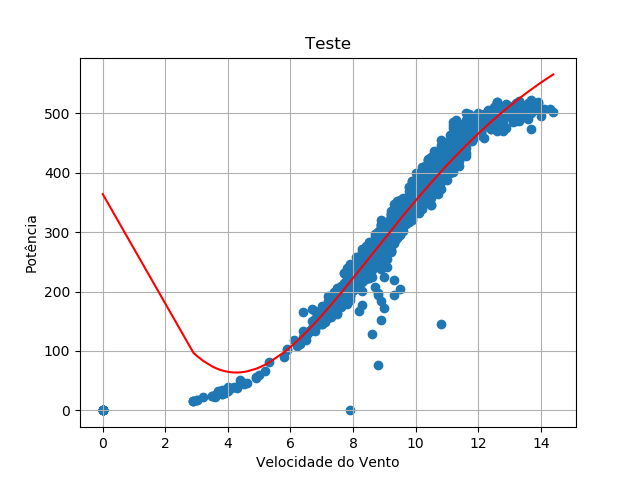
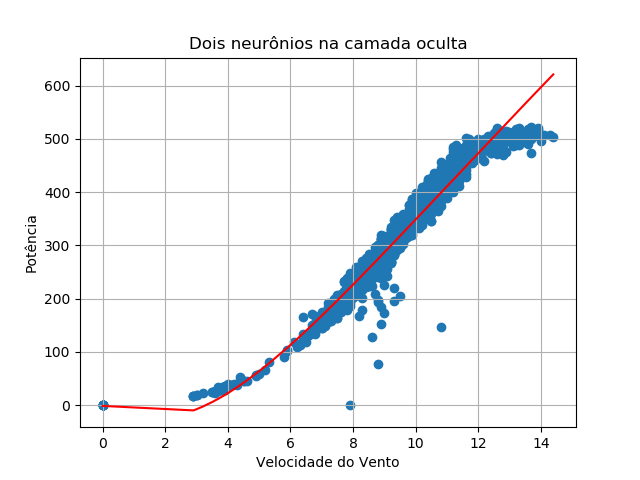
rede ELM

diff --git a/Trabalho 02/redeELM.py b/Trabalho 02/redeELM.py
@@ -6,46 +6,51 @@ import itertools
 
 data = np.loadtxt('./Trabalho 02/aerogerador.dat')
 x_treino = data[0:, 0:1] # velociade do vento
+x_treino = x_treino.reshape((1, 2250)) # transforma em um vetor de N colunas
+ones = np.ones(x_treino.shape)
+x_treino = np.vstack((ones, x_treino)) # acrescenta uma linha de 1's
 
 y_treino = data[0:, 1:]  # potência
+y_treino = y_treino.reshape((1, 2250)) # transforma em um vetor de N colunas
 
+#numero de neurônios da camada oculta
+q = 2
+p = 1 # número de variáveis de entrada
 
-# DOIS NEURÔNIOS NA CAMADA OCULTA
+# vetor de pesos da camada oculta
+W = np.random.rand(q, p+1) # matriz de pesos
 
-# Vetor de pesos inicial preenchido com valores aleatórios uniformente distribídos no intervalo [-1, 1)
-aux = [random.uniform(0, 1), random.uniform(0, 1)]
-W = np.array(aux) # matriz de pesos
-Z = np.array([[], []])  # matriz de saídas
-for i in range(0, x_treino.shape[0]):
-    x = x_treino[i]
-    u =  np.dot(W, x[0])
-    z = np.array([[(1 / (1 + (math.exp(-1 * u[0]))))], [(1 / (1 + (math.exp(-1 * u[1]))))]])
+# ativações dos neurônios da camada oculta
+u = np.matmul(W, x_treino)
+
+Z = np.array([[],[]])
+#percorrer todas as N colunas de u
+for i in range(0, u.shape[1]):
+    z = np.array([[(1 / (1 + (math.exp(-1 * u[0:1, i:i+1][0][0]))))], [(1 / (1 + (math.exp(-1 * u[1:2, i:i+1][0][0]))))]])
+    #print(z)
     Z = np.hstack((Z,z))
 
-# vetor D de saídas esperadas
-D = y_treino.reshape((1, 2250))
-
-# matriz M de pesos da camada de saída
-M = np.matmul(D,Z.transpose())
-M = np.matmul(M,np.linalg.inv(np.matmul(Z,Z.transpose())))
+# vetor Z que é a entrada da camada de saída
+ones = np.ones((1, Z.shape[1]))
+Z = np.vstack((ones, Z)) # acrescenta uma linha de 1's
 
 
-# O vetor Y guarda os valores y de saída da última camada para casa amostra
-Y_list = list()
-for i in range(0, x_treino.shape[0]):
+# vetor M de pesos da camada de saída
+aux = np.matmul(y_treino, Z.transpose())
+aux2 = np.linalg.inv(np.matmul(Z, Z.transpose()))
+M = np.matmul(aux, aux2)
 
-    input = Z[0:, i:(i+1)]
-    y = np.dot(M, input)[0][0]
-    Y_list.append(y)
-Y = np.array(Y_list)
-print(Y.shape)
-# plotando
+# vetor final com os resultados da camda de saída
+y = np.matmul(M,Z)
+
+
+# Gráfico
 plt.figure(1)
-plt.scatter(x_treino, y_treino)   # amostras
-plt.plot(x_treino, Y[0:], color = 'red') # regressão linear
+plt.scatter(data[0:, 0:1], data[0:, 1:])   # amostras
+plt.plot(data[0:, 0:1], y.transpose(), color = 'red') # rede neural
 plt.ylabel('Potência')
 plt.xlabel('Velocidade do Vento')
-plt.title('Teste')
+plt.title('Dois neurônios na camada oculta')
 plt.grid(True)
 
 plt.show()
